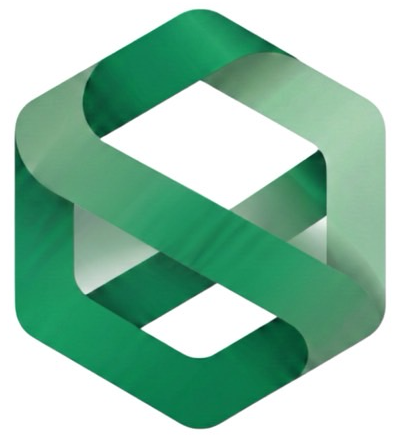
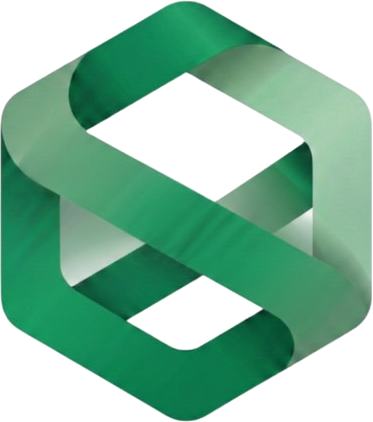
ロゴマークとファビコンを背景透過のPNGに作り直し、ギャラリー差し替え用フォルダを追加
- sanei-mark.png / favicon_32.png: 白背景を抜いた RGBA の PNG に変更
- apple-touch-icon.png は iOS が透過部分を黒く塗るため白背景のまま
- 差し替え写真/ギャラリー/: 差し替え写真の受け皿。元写真は git に含めない

diff --git a/差し替え写真/ギャラリー/README.md b/差し替え写真/ギャラリー/README.md
@@ -1,0 +1,24 @@
+# ギャラリー差し替え写真の受け皿
+
+このフォルダに差し替え用の写真を入れてください。入れたあとで「ギャラリーの写真を入れた」と伝えれば、
+サイト用に変換（WebP・サイズ調整）してバレル加工ページのギャラリーへ反映します。
+
+## 写真の仕様
+- 比率: 4:3 の横長（ギャラリーの枠が 4:3 固定のため、違う比率は上下か左右が切れます）
+- サイズ: 横 1600px 以上を推奨
+- 形式: JPG / PNG / HEIC どれでも可（こちらで WebP に変換します）
+
+## ファイル名の付け方
+差し替える位置の番号を先頭に付けてください（例: `02_新しい写真.jpg`）。
+番号のない写真は、ギャラリーの末尾に追加するものとして扱います。
+
+## 現在のギャラリー（表示順）
+| 番号 | 写真 | キャプション |
+|---|---|---|
+| 01 | 06_factory_processing_line.webp | 加工設備 |
+| 02 | 04_equipment_hand_crank.webp | 加工設備 |
+| 03 | 01_service_barrel_factory.webp | 回転式バレル |
+| 04 | 05_process_parts_collection.webp | 加工工程 |
+| 05 | 07_factory_interior_gallery.webp | 工場内 |
+
+キャプションを変えたい場合は、ファイル名の後ろに書くか（例: `03_回転式バレル機の内部.jpg`）、別途伝えてください。
